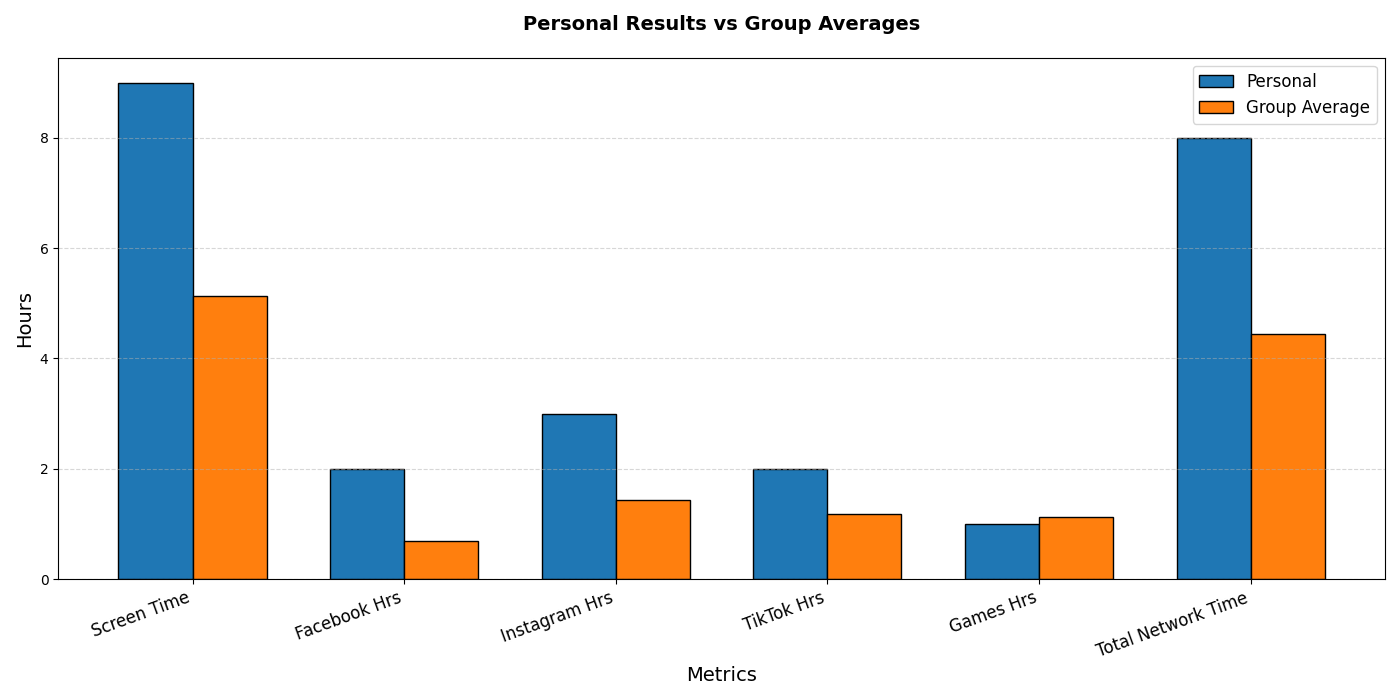
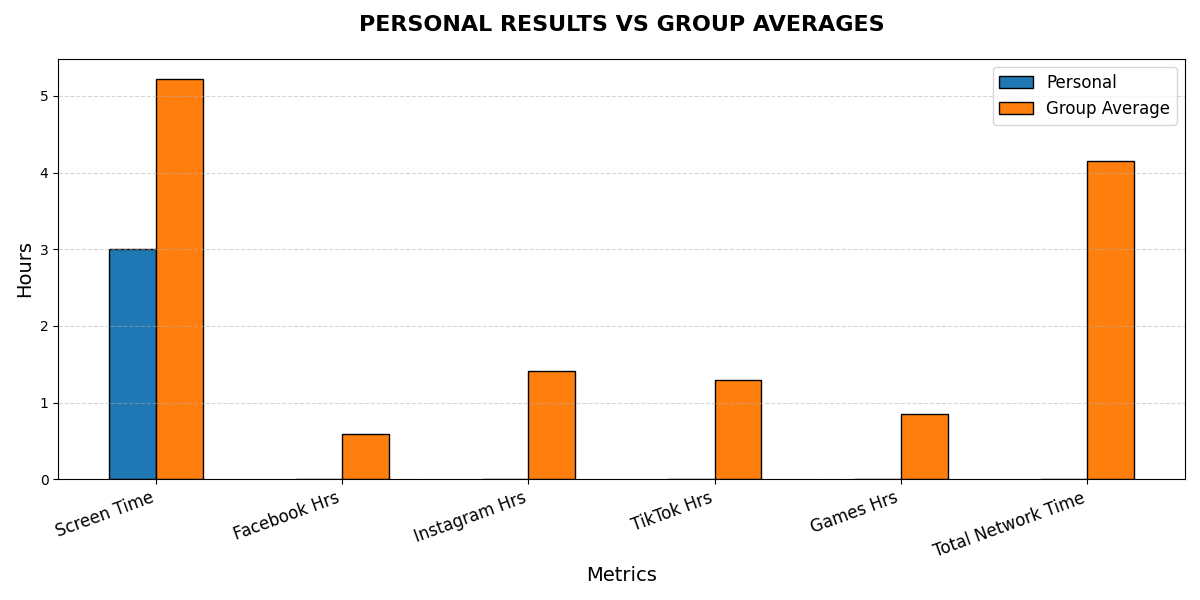
print comparison user vs group average (screen_time and Networks)

Changed region(s): [[0.0, 0.0, 1.0, 0.93], [0.4933, 0.93, 0.555, 0.99], [0.0308, 0.09, 0.0617, 0.12]]

diff --git a/run.py b/run.py
@@ -59,7 +59,7 @@ def personal_recommendation(stress, fatigue, screen_time):
     elif screen_time <=6 or fatigue == "sometimes":
         return "Moderate usage. Try to reduce screen time and take screen breaks every hour."
     else:
-        return "High usage. Consider reducing screen time and doing physical or outdooor activities"
+        return "High usage. Consider reducing screen time and doing physical or outdooor activities."
     
 
 # --------------------------------------------------------
@@ -74,7 +74,7 @@ def group_recommendation(stress, fatigue, screen_time):
     elif stress == "medium":
         return "Group stress is moderate. Encourage screen breaks and physical social time."
     else:
-        return "Group stress is low. Keep up the healthy tech habits!."
+        return "Group stress is low. Keep up the healthy tech habits!"
 
 # --------------------------------------------------------
 # 5. Network detailed usage
@@ -149,7 +149,7 @@ def run_survey():
         try:
             age = int(age_input)
             if age <= 0:
-                print(" Age must be a positive number. \n")
+                print("Age must be a positive number. \n")
             else:
                 break
         except ValueError as e:
@@ -162,11 +162,11 @@ def run_survey():
         try:
             screen_time = int(screen_input)
             if screen_time < 0:
-                print(" Screen time cannot be negative. \n")
+                print("Screen time cannot be negative. \n")
             else:
                 break
         except ValueError as e:
-            print(" Invalid screen time. Enter a number. \n")
+            print("Invalid screen time. Enter a number. \n")
             print(f"(Details: {e}) \n")
 
     # Validate number of networks
@@ -179,7 +179,7 @@ def run_survey():
             else:
                 break
         except ValueError as e:
-            print(" Please enter a valid number for social networks. \n")
+            print("Please enter a valid number for social networks. \n")
             print(f"(Details: {e}) \n")
 
     # Validate remote work input
@@ -210,17 +210,19 @@ def run_survey():
             print("Please enter: low, medium, or high. \n")
 
     # Collect network usage
-    print("Tell us about your usage of specific apps...\n")
-    network_hours, total_network_time = network_usage(networks)
-    print(f"Total time on all social networks: {total_network_time} hours/day \n")
+    if networks > 0:
+        print("\nTell us about your usage of specific apps...\n")
 
+    network_hours, total_network_time = network_usage(networks)
+    
+    print("\nTHANK YOU FOR COMPLETING THE SURVEY! \n")
 
     # Generate recommendation
     p_recommendation = personal_recommendation(stress, fatigue, screen_time)
     g_recommendation = group_recommendation(stress, fatigue, screen_time)
 
-    print(f"Personal Recommendation: {p_recommendation} \n")
-    print(f"Group Recommendation: {g_recommendation} \n")
+    print(f"Personal Recommendation: \n  {p_recommendation} \n")
+    print(f"Group Recommendation: \n  {g_recommendation} \n")
 
 
     # Combine all data
@@ -231,7 +233,7 @@ def run_survey():
     worksheet = SHEET.worksheet("responses")
     worksheet.append_row(row_data)
 
-    print("Thank you for completing the survey! \n")
+    
 
 # ------------------------------------------
 # 8. Analysis responses
@@ -252,16 +254,36 @@ def analyze_responses(worksheet):
     avg_screen_time = total_screen_time / len(records)
     avg_network_time = total_network_time / len(records)
 
+    # Get latest user's screen time and network time from the last row
+    last_entry = records[-1]
+    user_screen_time = int(last_entry["Screen Time"])
+    user_network_time = int(last_entry["Total Network Time"])
+
+    # Now use these for comparison
+    # Compare personal screen time to the group average
+    if user_screen_time < avg_screen_time:
+        print("Screen Time: Below average. Well done! \n")
+    elif user_screen_time > avg_screen_time:
+        print("Screen Time: Above average. Consider taking regular breaks. \n")
+    else:
+        print("Screen Time: At average. Try small improvements for a healthier balance. \n")
+
+    # Compare personal social network usage time to the group average
+    if user_network_time < avg_network_time:
+        print("Social Network Usage: Less than average. Great job staying focused! \n")
+    elif user_network_time > avg_network_time:
+        print("Social Network Usage: Above than average. Try setting limits. \n")
+    else:
+        print("Social Network Usage: On par with average. Consider cutting back a bit to free up time. \n")
+
+
     stress_levels = {"low": 0, "medium": 0, "high": 0}
     for record in records:
         stress = record["Stress Level"].lower()
         if stress in stress_levels:
             stress_levels[stress] += 1
 
-    print(f"Average Screen Time: {avg_screen_time:.2f} hours/day \n")
-    print(f"Average Total Network Time: {avg_network_time:.2f} hours/day \n")
-
-    print("Stress Level Distribution: \n")
+    print("\nStress Level Distribution: \n")
     for level, count in stress_levels.items():
         percentage = (count / len(records)) * 100
         print(f"  {level.capitalize()}: {count} ({percentage:.2f}%) \n")
@@ -297,11 +319,11 @@ else:
     personal_vals = personal_data.values
     group_vals = group_avg.values
 
-    fig, ax = plt.subplots(figsize=(14, 7))
+    fig, ax = plt.subplots(figsize=(12, 6))
 
     # Bar positions
     x = range(len(labels))
-    bar_width = 0.35
+    bar_width = 0.25
 
     # Bars
     ax.bar(x, personal_vals, width=bar_width, label="Personal", edgecolor='black')
